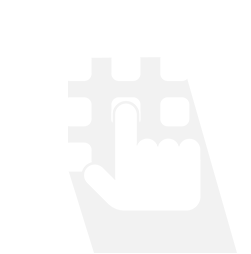
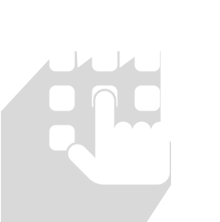
modificacion iconos colores y leyenda

diff --git a/custom-style.css b/custom-style.css
@@ -1,6 +1,6 @@
-@import url('https://fonts.googleapis.com/css?family=Droid+Sans:400,700');
+@import url('https://fonts.googleapis.com/css?family=Open+Sans:400,600,700,800');
 body{
-  font-family: 'Droid Sans', sans-serif;
+  font-family: 'Open Sans', sans-serif;
   font-size: 16px;
   font-weight: 400;
 }
@@ -46,7 +46,7 @@ header div{
   width: 50px;
 }
 .steps li.active span{
-  background-color: #b1ca00;
+  background-color: #8cb828;
 }
 .steps li p{
   background: white;
@@ -83,15 +83,33 @@ header div{
 .col-flex{
   display: flex;
   margin-bottom: 20px;
+  padding-bottom: 32px;
+  position: relative;
+  text-align: center;
 }
 
 .icon-option{
-  background: #70af1a;
+  background: #8cb828;
   border-radius: 50%;
   display: flex;
   overflow: hidden;
 }
-
+.col-flex:nth-child(2) .icon-option{
+  background: #5babb3;
+}
+.col-flex:nth-child(3) .icon-option{
+  background: #f18740;
+}
+.col-flex:nth-child(4) .icon-option{
+  background: #f5a93c;
+}
+.col-flex p{
+  font-size: 22px;
+  position: absolute;
+  bottom: 0;
+  margin: 0;
+  width: 100%;
+}
 
 @media screen and (max-width:768px){
   .company-logo{

diff --git a/index.html b/index.html
@@ -43,15 +43,19 @@
         <div class="row-flex">
           <div class="col-flex">
             <div class="icon-option ico-pin"><img src="img/ico-pin.png" alt="" class="img-responsive"></div>
+            <p>Ingresa tu PIN</p>
           </div>
           <div class="col-flex">
             <div class="icon-option ico-card"><img src="img/ico-card.png" alt="" class="img-responsive"></div>
+            <p>Desliza tu tarjeta</p>
           </div>
           <div class="col-flex">
             <div class="icon-option ico-user"><img src="img/ico-user.png" alt="" class="img-responsive"></div>
+            <p>Usuario registrado</p>
           </div>
           <div class="col-flex">
             <div class="icon-option ico-guest"><img src="img/ico-guest.png" alt="" class="img-responsive"></div>
+            <p>Invitado</p>
           </div>
         </div>      
       </div>
